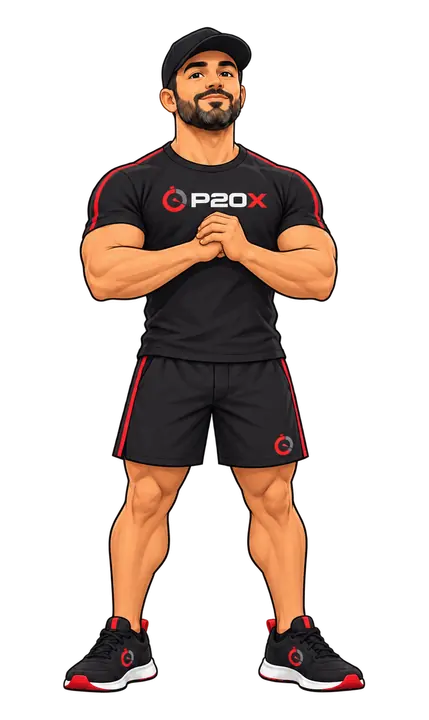
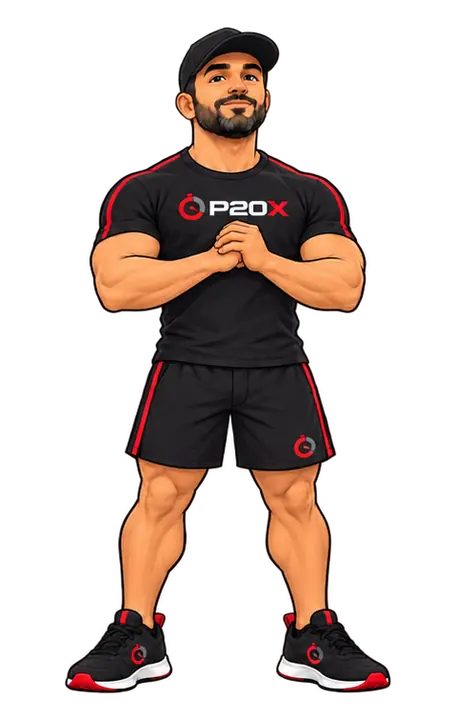
Agachamento refeito a partir de uma folha de poses
Com as três poses geradas numa imagem só, o mascote sai na mesma escala,
no mesmo chão e com os pés na mesma abertura — a versão anterior abria
os pés ao descer. O script aceita `--folha`: separa as poses pelas
colunas vazias e toca em ida e volta (1 2 3 2).

Changed region(s): [[0.1212, 0.0306, 0.8788, 0.9778]]

diff --git a/features/exercises/demos.ts b/features/exercises/demos.ts
@@ -27,7 +27,7 @@ type DemoRegistrada = {
 
 const DEMOS: Record<string, DemoRegistrada> = {
   flexao: { width: 720, height: 418 },
-  agachamento: { width: 429, height: 720 },
+  agachamento: { width: 455, height: 720 },
 };
 
 export type ExerciseDemoMedia = {

diff --git a/docs/DIARIO.md b/docs/DIARIO.md
@@ -40,6 +40,9 @@ poucos, exercício por exercício, e o lugar dela já fica reservado.
   quadro, e o agachado saía 40% maior que o em pé. O script ganhou `--vista
   frente`, que usa a largura do boné como régua e o meio entre os pés como
   ponto fixo. A flexão continua em `--vista lado` (o padrão).
+- O que resolveu de vez foi pedir as poses **numa folha só**, lado a lado: a
+  geração mantém escala, chão e abertura dos pés sozinha. `--folha poses.png`
+  separa as poses pelas colunas vazias e monta a ida e volta (1 2 3 2).
 - `DialogContent` ganhou `overlayClassName` (a janela da demonstração escurece
   o fundo; as outras seguem iguais).
 
